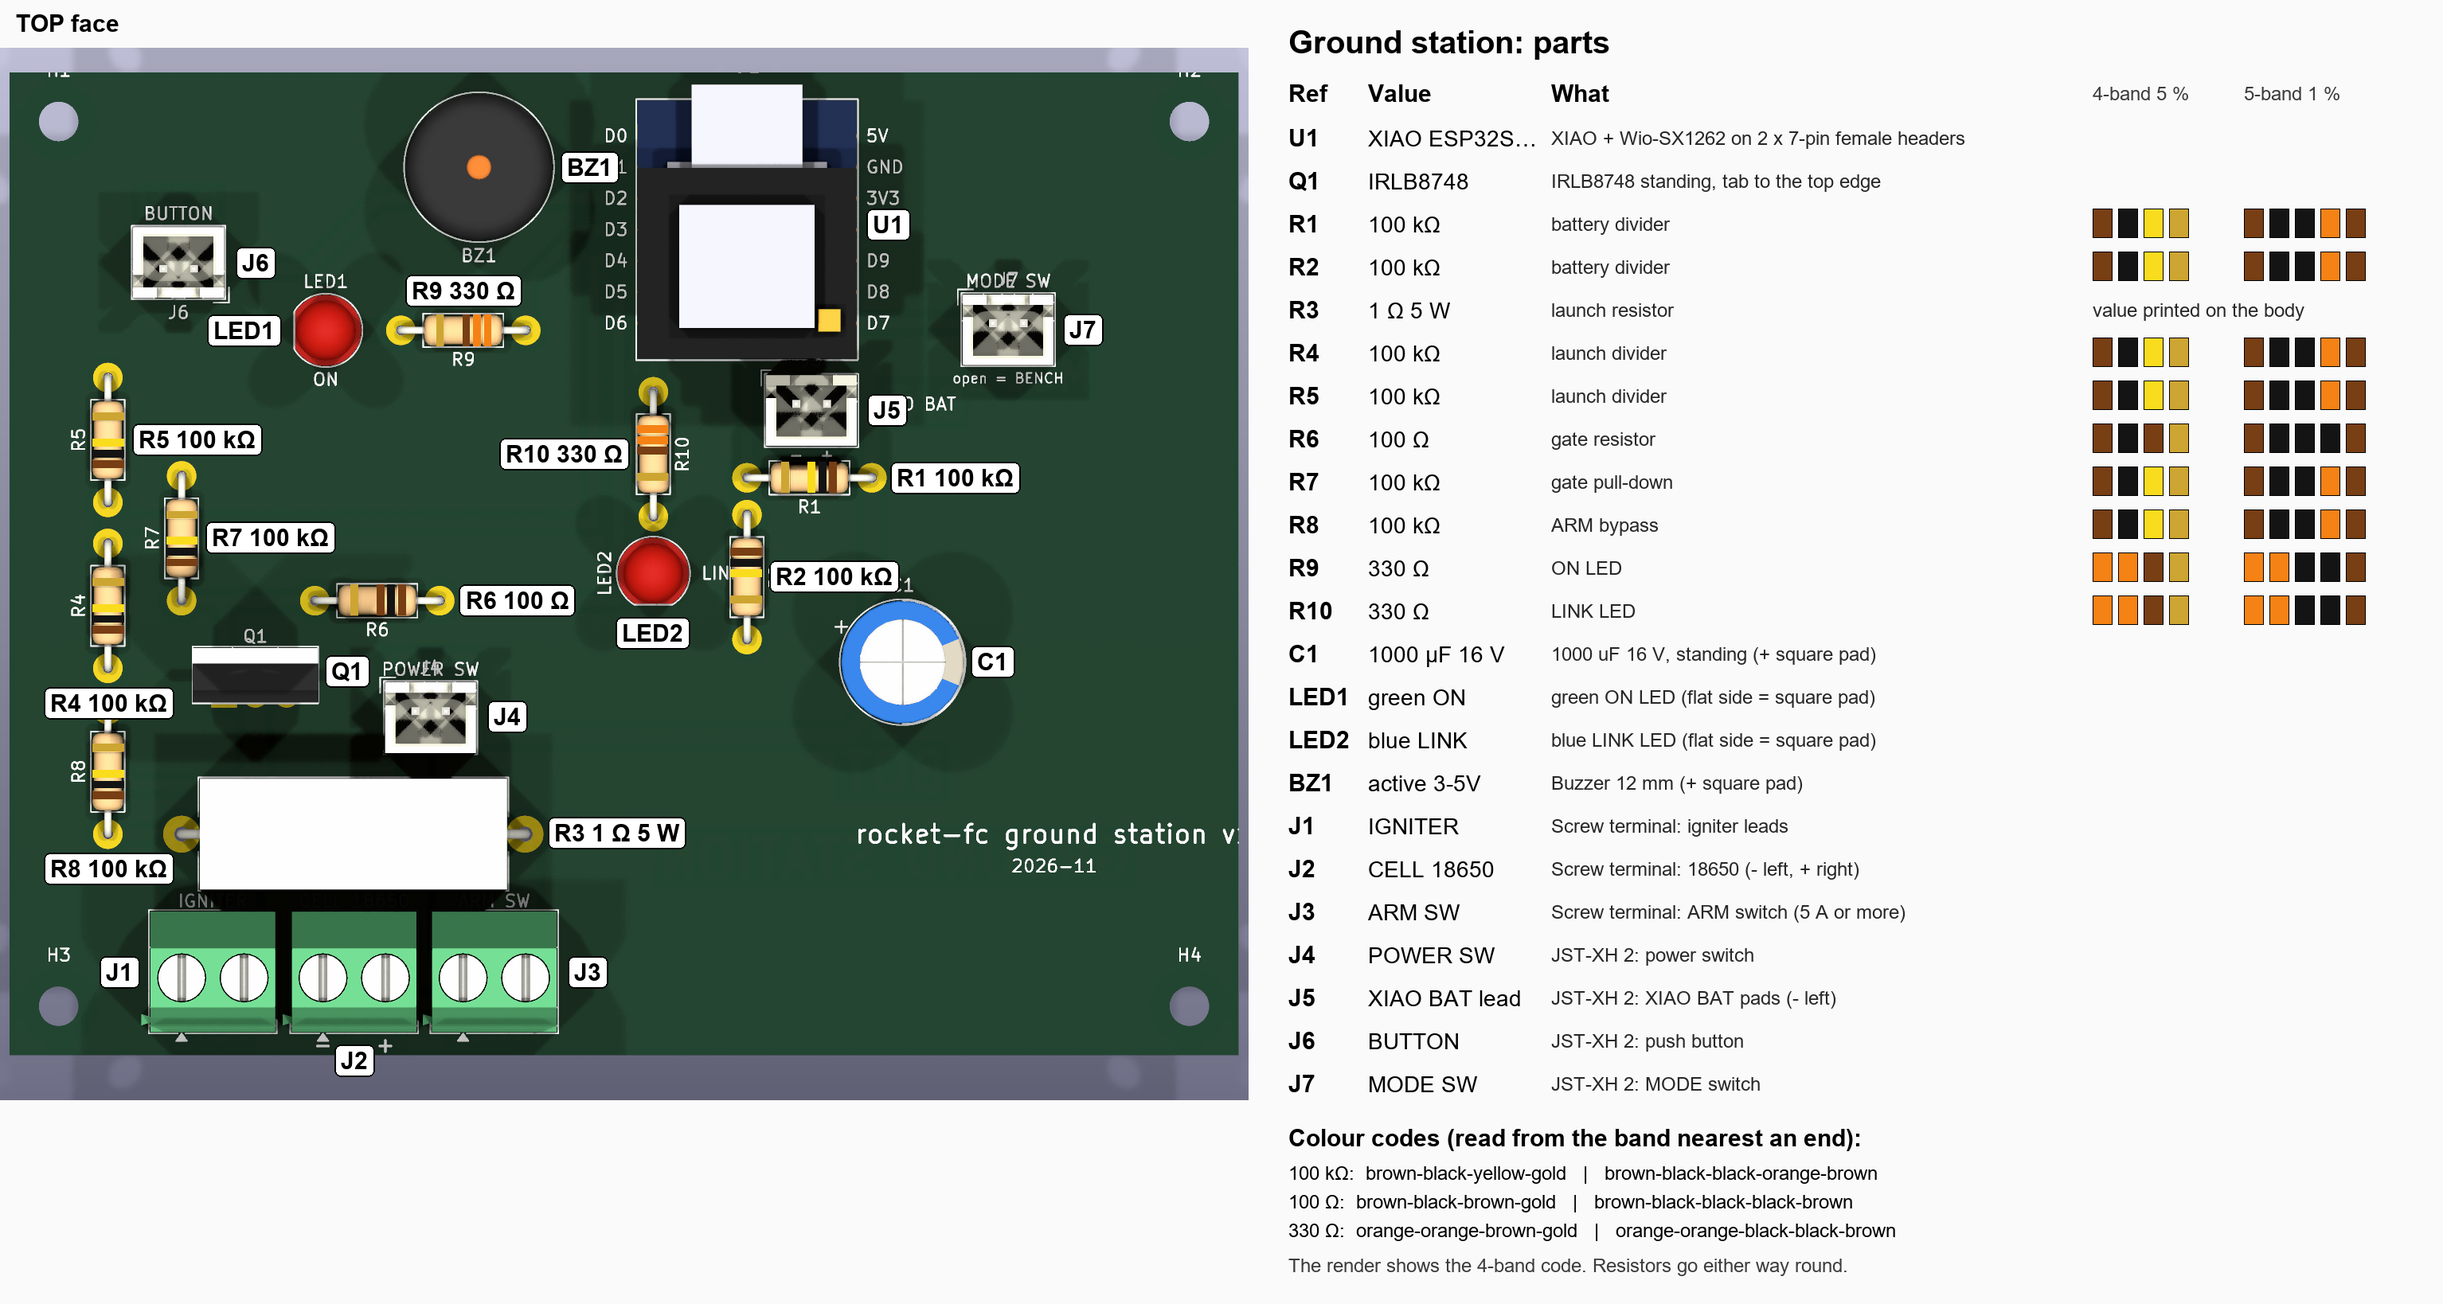
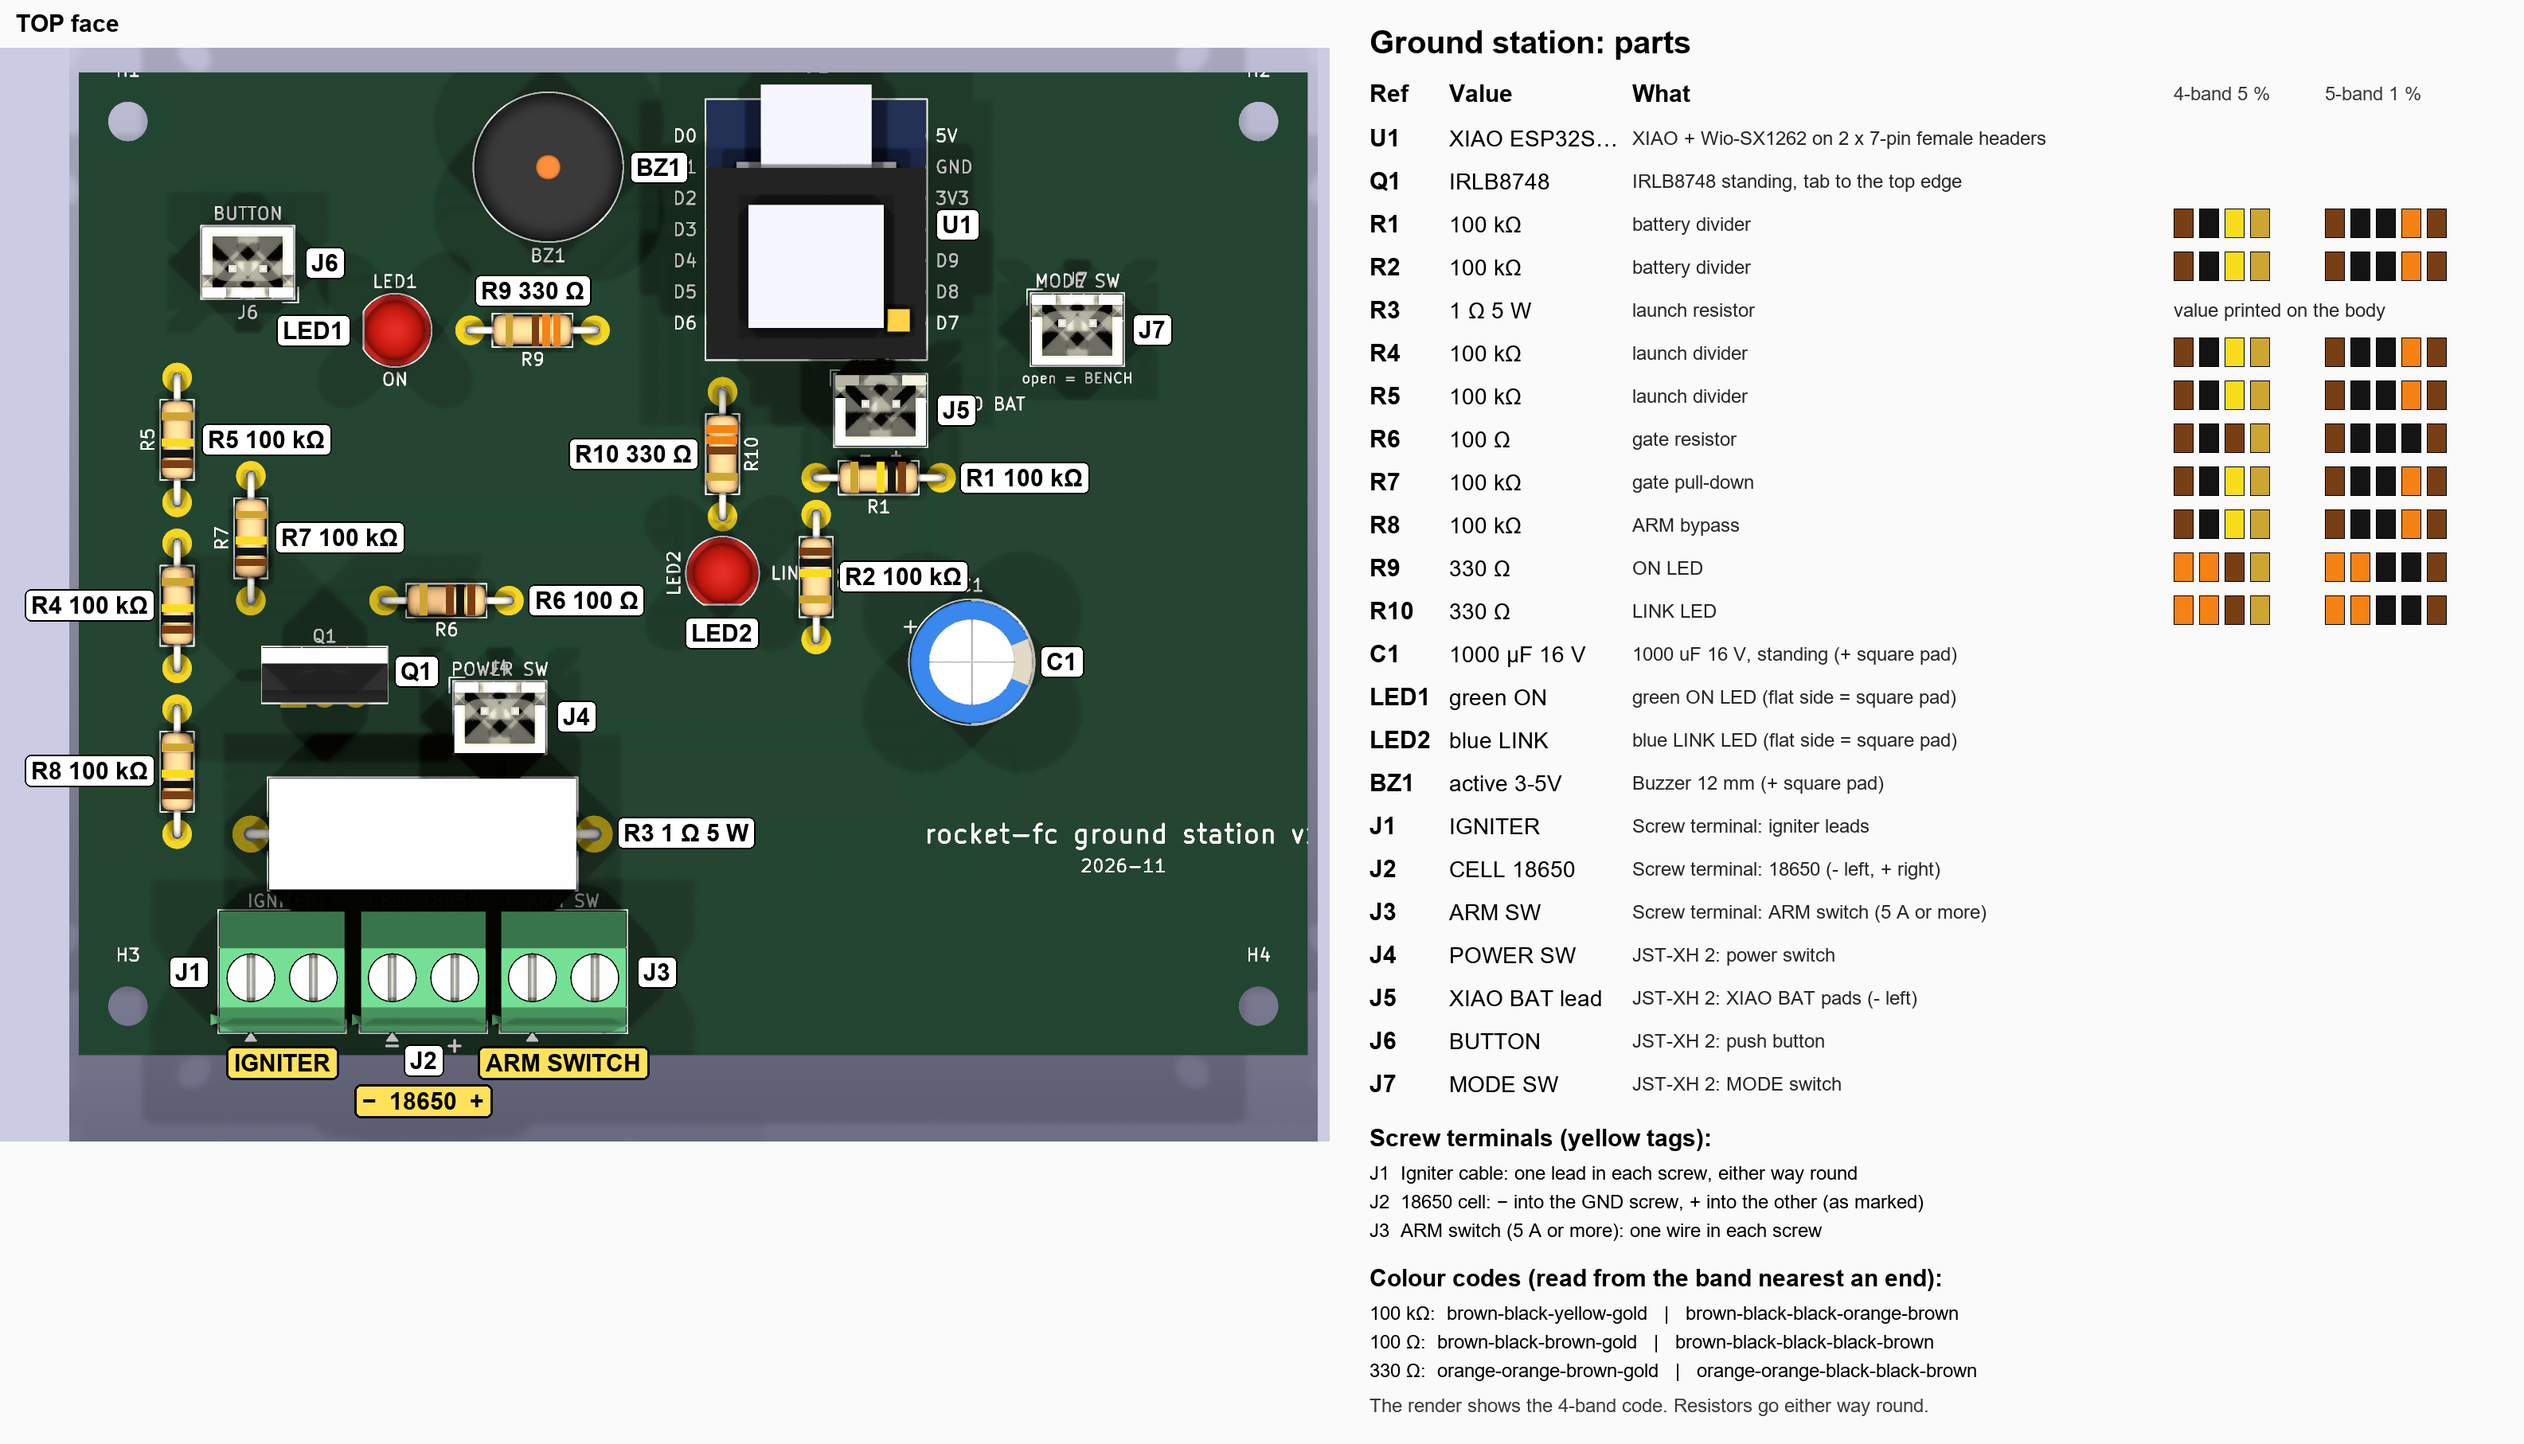
Parts sheets: what goes into each screw terminal

diff --git a/tools/pcb_parts.py b/tools/pcb_parts.py
@@ -22,6 +22,15 @@ RGB = {'black': (20, 20, 20), 'brown': (120, 62, 20), 'red': (215, 30, 30), 'ora
        'yellow': (250, 220, 30), 'green': (30, 160, 60), 'blue': (30, 80, 220), 'violet': (140, 60, 200),
        'grey': (140, 140, 140), 'white': (245, 245, 245), 'gold': (205, 165, 50), 'silver': (190, 190, 200)}
 ORDER = ['U', 'Q', 'R', 'C', 'LED', 'BZ', 'J']           # legend order by reference prefix
+# what goes into each screw terminal: (tag on the render, sign per pin or None, legend line)
+WIRES = {'rocket-fc-flight': {
+    'J3': ('ARM LINK', None, 'ARM link (key switch or jumper): one wire in each screw'),
+    'J4': ('IGNITER', None, 'Igniter: one lead in each screw, either way round'),
+}, 'rocket-fc-ground': {
+    'J1': ('IGNITER', None, 'Igniter cable: one lead in each screw, either way round'),
+    'J2': ('18650', {'GND': '−', '/CELL+': '+'}, '18650 cell: − into the GND screw, + into the other (as marked)'),
+    'J3': ('ARM SWITCH', None, 'ARM switch (5 A or more): one wire in each screw'),
+}}
 
 
 def ohms(value):
@@ -114,6 +123,10 @@ def draw(parts_json, top_png, bottom_png, out_png, name='rocket-fc-flight'):
     for side in sides:
         im = Image.open(top_png if side == 'F' else bottom_png).convert('RGB')
         ox, oy, k = find_board(im, BW, BH)
+        pad = 140                                        # room round the render for tags outside the board
+        big = Image.new('RGB', (im.width + 2 * pad, im.height + 2 * pad), im.getpixel((2, 2)))
+        big.paste(im, (pad, pad))
+        im, ox, oy = big, ox + pad, oy + pad
         # board mm -> render pixels; the bottom render is seen from below (left and right swapped)
         if side == 'F':
             P = lambda x, y, ox=ox, oy=oy, k=k: (ox + (x - X0) * k, oy + (y - Y0) * k)
@@ -128,7 +141,7 @@ def draw(parts_json, top_png, bottom_png, out_png, name='rocket-fc-flight'):
             if r is None or not m or watts(p['value']) >= 5 or len(p['pads']) != 2:
                 continue
             L, D = float(m.group(1)), float(m.group(2))
-            (_, ax, ay), (_, bx, by) = p['pads']
+            (_, ax, ay, *_), (_, bx, by, *_) = p['pads']
             ux, uy = (bx - ax), (by - ay)
             n = math.hypot(ux, uy)
             ux, uy = ux / n, uy / n
@@ -146,6 +159,7 @@ def draw(parts_json, top_png, bottom_png, out_png, name='rocket-fc-flight'):
             a, b = P(x0, y0), P(x1, y1)
             boxes.append((min(a[0], b[0]), min(a[1], b[1]), max(a[0], b[0]), max(a[1], b[1])))
         placed = []
+        wires = WIRES.get(name, {})
 
         def hit(t):
             s = 0
@@ -157,6 +171,29 @@ def draw(parts_json, top_png, bottom_png, out_png, name='rocket-fc-flight'):
             if t[0] < 0 or t[1] < 0 or t[2] > im.width or t[3] > im.height:
                 s += 1e9
             return s
+        # screw terminals first: what to connect, on the outer side of the block (where the wires go in)
+        for p, (bx0, by0, bx1, by1) in zip(mine, boxes):
+            if p['ref'] not in wires:
+                continue
+            label, signs, _ = wires[p['ref']]
+            pins = sorted((P(x, y) + (net,) for _, x, y, net in p['pads']), key=lambda q: q[0])
+            if signs:
+                label = '%s  %s  %s' % (signs.get(pins[0][2], ''), label, signs.get(pins[-1][2], ''))
+            w, h = dr.textlength(label, font=f_tag) + 20, 42
+            cx, cy = (bx0 + bx1) / 2, (by0 + by1) / 2
+            gx, gy = (cx - (ox + BW * k / 2)) / BW, (cy - (oy + BH * k / 2)) / BH
+            if abs(gy) >= abs(gx):
+                x, y = cx - w / 2, (by1 + 8 if gy > 0 else by0 - 8 - h)
+                step = (0, (h + 6) * (1 if gy > 0 else -1))
+            else:
+                x, y = (bx1 + 8 if gx > 0 else bx0 - 8 - w), cy - h / 2
+                step = ((w + 6) * (1 if gx > 0 else -1), 0)
+            # side by side terminals: move a tag that would touch its neighbour's one row further out
+            while any(min(x + w, t[2]) - max(x, t[0]) > -6 and min(y + h, t[3]) - max(y, t[1]) > -6 for t in placed):
+                x, y = x + step[0], y + step[1]
+            placed.append((x, y, x + w, y + h))
+            dr.rounded_rectangle((x, y, x + w, y + h), 8, fill=(255, 225, 90), outline=(0, 0, 0), width=3)
+            dr.text((x + 10, y + 4), label, font=f_tag, fill=(0, 0, 0))
         for p, (bx0, by0, bx1, by1) in sorted(zip(mine, boxes), key=lambda q: (q[1][2] - q[1][0]) * (q[1][3] - q[1][1])):
             text = p['ref'] + (' ' + nice(p['ref'], p['value']) if p['ref'].startswith('R') else '')
             w, h = dr.textlength(text, font=f_tag) + 16, 40
@@ -230,6 +267,14 @@ def draw(parts_json, top_png, bottom_png, out_png, name='rocket-fc-flight'):
                 swatches(cb4, y, bands(r, 4))
                 swatches(cb5, y, bands(r, 5))
         y += RH
+    wires = WIRES.get(name, {})
+    if wires:
+        y += 20
+        dr.text((lx, y), 'Screw terminals (yellow tags):', font=f_tag, fill=(0, 0, 0))
+        y += 48
+        for ref, (_, _, line) in sorted(wires.items()):
+            dr.text((lx, y), '%s  %s' % (ref, line), font=f_small, fill=(0, 0, 0))
+            y += 36
     if any_r:
         y += 20
         dr.text((lx, y), 'Colour codes (read from the band nearest an end):', font=f_tag, fill=(0, 0, 0))

diff --git a/tools/pcb_map.py b/tools/pcb_map.py
@@ -88,7 +88,7 @@ def extract(pcb, out):
         data['parts'].append({
             'ref': f.GetReference(), 'value': f.GetValue(), 'fp': f.GetFPIDAsString(),
             'side': 'B' if f.IsFlipped() else 'F', 'shapes': shapes,
-            'pads': [[p.GetNumber(), mm(p.GetPosition().x), mm(p.GetPosition().y)] for p in f.Pads()],
+            'pads': [[p.GetNumber(), mm(p.GetPosition().x), mm(p.GetPosition().y), p.GetNetname()] for p in f.Pads()],
             'bbox': [mm(cb.GetX()), mm(cb.GetY()), mm(cb.GetRight()), mm(cb.GetBottom())],
             'pos': [mm(f.GetPosition().x), mm(f.GetPosition().y)]})
     data['vias'] = [[mm(t.GetPosition().x), mm(t.GetPosition().y), t.GetNetname()]
@@ -177,7 +177,7 @@ def draw(parts_json, laser_dir, out_png, name='rocket-fc-flight', top_svg=None):
             tags.append((P(cx, cy), ref, col))
         n_both = 0                                          # pins soldered on both faces: ring, part's face only
         for p in mine:
-            for num, x, y in p['pads']:
+            for num, x, y, *_ in p['pads']:
                 if (p['ref'], num) in both:
                     n_both += 1
                     for col, w in ((WHITE, 0.75), (RED, 0.4)):

diff --git a/hardware/flight-pcb/README.md b/hardware/flight-pcb/README.md
@@ -62,10 +62,11 @@ centre line and only low parts (resistors lying flat) are near the edges.
 
 ![Parts sheet](parts.png)
 
-Every part tagged on the 3D render, with its value, what it is and, for the
-resistors, the colour code (4-band 5 %, 5-band 1 %; the render shows
-the 4-band one). Parts on both faces: the bottom panel is seen from below. `python tools/pcb_export.py board`
-redraws it (`tools/pcb_parts.py`, needs Pillow).
+Every part tagged on the 3D render, what goes into each screw terminal
+(yellow tags), each part's value and what it is, and for the resistors the
+colour code (4-band 5 %, 5-band 1 %; the render shows the 4-band one). Parts
+on both faces: the bottom panel is seen from below. `python
+tools/pcb_export.py board` redraws it (`tools/pcb_parts.py`, needs Pillow).
 
 ## Making the board (laser and etch)
 

diff --git a/hardware/ground-pcb/README.md b/hardware/ground-pcb/README.md
@@ -84,9 +84,10 @@ shrink them back.
 
 ![Parts sheet](parts.png)
 
-Every part tagged on the 3D render, with its value, what it is and, for the
-resistors, the colour code (4-band 5 %, 5-band 1 %; the render shows
-the 4-band one). Every part sits on the top face. `python tools/pcb_export.py --board ground board`
+Every part tagged on the 3D render, what goes into each screw terminal
+(yellow tags), each part's value and what it is, and for the resistors the
+colour code (4-band 5 %, 5-band 1 %; the render shows the 4-band one). Every
+part sits on the top face. `python tools/pcb_export.py --board ground board`
 redraws it (`tools/pcb_parts.py`, needs Pillow).
 
 ## Making the board (laser and etch)

diff --git a/CHANGELOG.md b/CHANGELOG.md
@@ -86,7 +86,8 @@ version number (`tlm::kVersion`, docs/TELEMETRY.md).
   files, no jig), and its placement map shows the parts over the copper
   seen through the board.
 - Hardware: parts sheet for both boards (`hardware/*-pcb/parts.png`, shown in
-  their READMEs): the 3D renders with every part tagged, and a legend with
+  their READMEs): the 3D renders with every part tagged and what goes into
+  each screw terminal, and a legend with
   values, what each part is and the resistor colour codes. Drawn by
   `tools/pcb_parts.py` in the board step of `tools/pcb_export.py`.
 - UI: zoom on every plot (drag, Shift+drag to pan, Ctrl+wheel, double-click to
